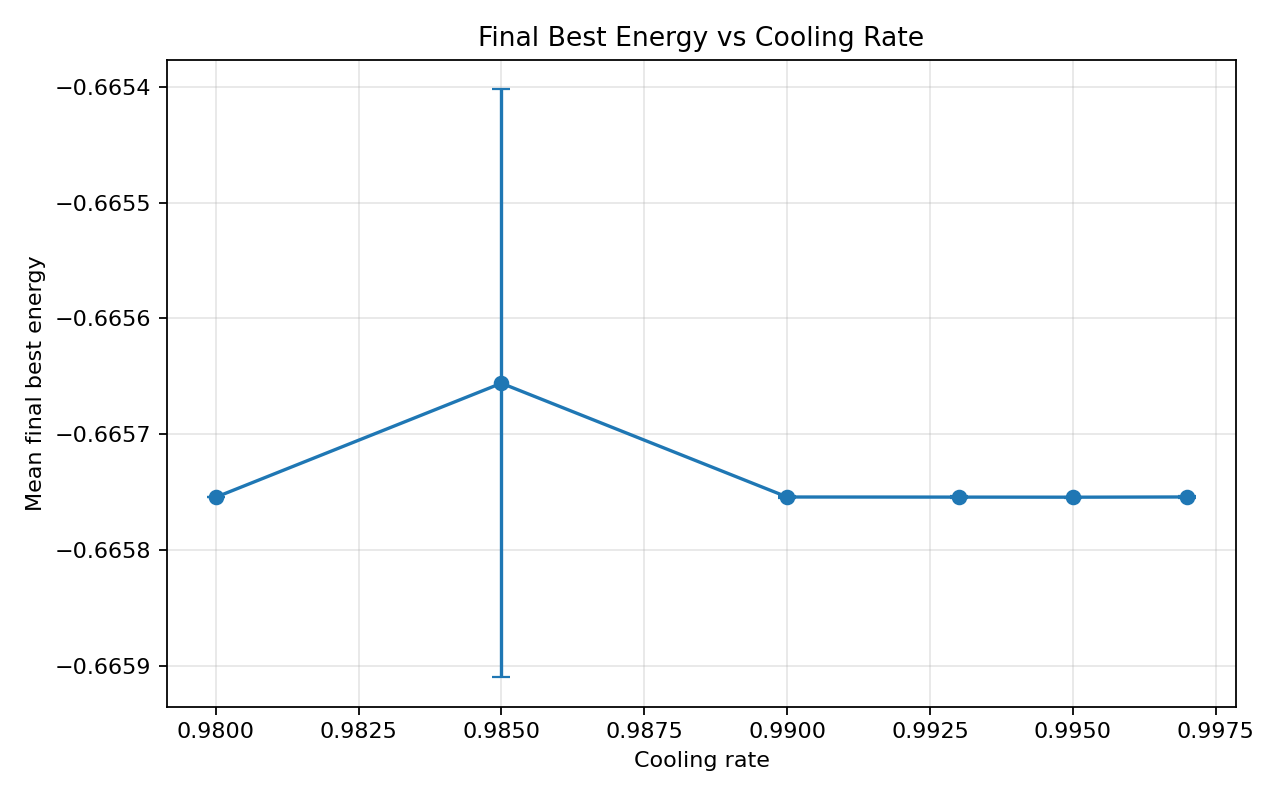
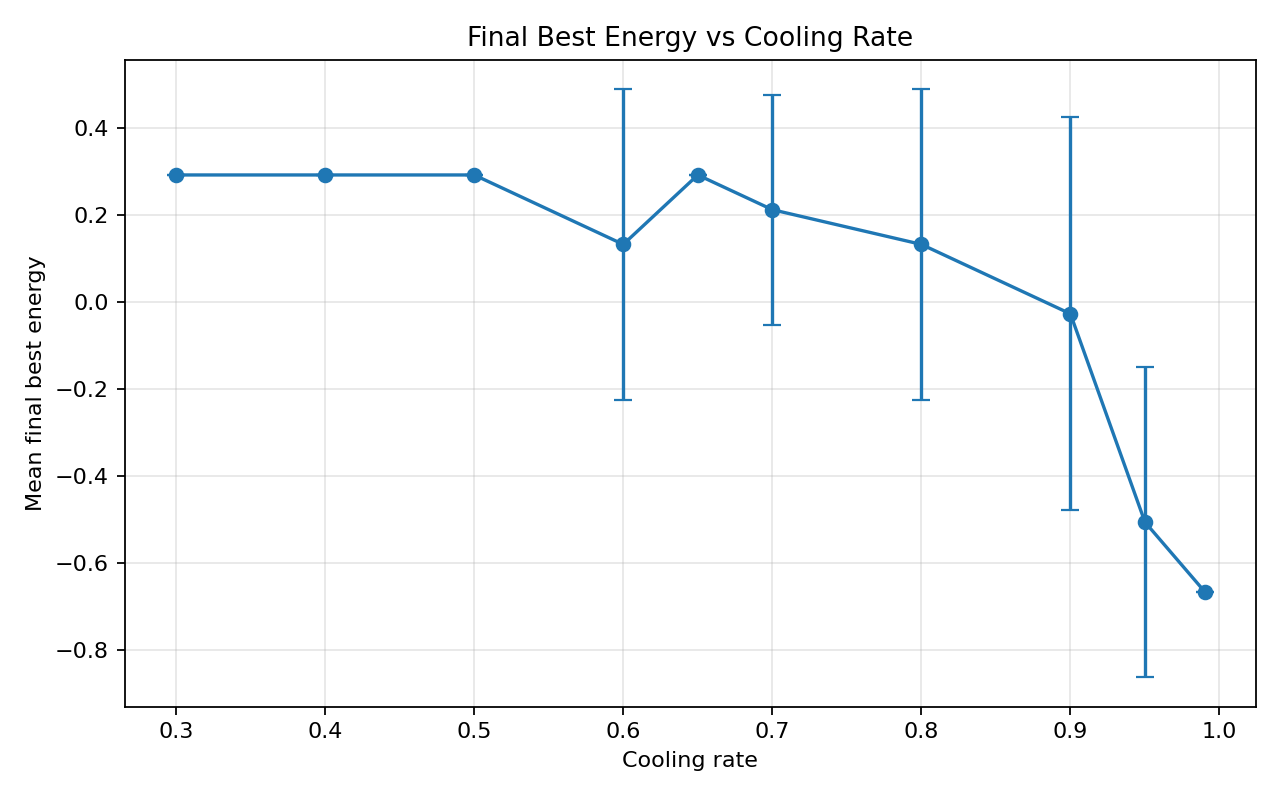
More visualisations for 1983-Kirkpatrick SA paper

diff --git a/papers/1983-kirkpatrick-optimization-by-simulated-annealing/benchmarks/benchmark_simulated_annealing.py b/papers/1983-kirkpatrick-optimization-by-simulated-annealing/benchmarks/benchmark_simulated_annealing.py
@@ -32,6 +32,8 @@ from python.simulated_annealing import (  # noqa: E402
     rugged_landscape_energy,
 )
 
+GEOMETRIC_ALPHAS = [0.99, 0.95, 0.9, 0.8, 0.7, 0.65, 0.6, 0.5, 0.4, 0.3]
+
 
 def rolling_mean(values: list[float], window: int) -> list[float]:
     result: list[float] = []
@@ -318,6 +320,47 @@ def plot_parameter_sweep(rows, parameter_key: str, title: str, xlabel: str, file
     plt.close()
 
 
+def plot_geometric_alpha_study(rows, output_dir: Path) -> None:
+    x_values = [row["cooling_rate"] for row in rows]
+    best_energy = [row["mean_best_energy"] for row in rows]
+    best_energy_err = [row["stderr_best_energy"] for row in rows]
+    global_gap = [row["mean_best_energy_gap_to_global_minimum"] for row in rows]
+    global_gap_err = [row["stderr_best_energy_gap_to_global_minimum"] for row in rows]
+
+    fig, (ax1, ax2) = plt.subplots(2, 1, figsize=(9, 7.5), sharex=True)
+    ax1.errorbar(
+        x_values,
+        best_energy,
+        yerr=best_energy_err,
+        marker="o",
+        capsize=4,
+        linewidth=1.6,
+        color="#1f77b4",
+    )
+    ax1.set_ylabel("Final best energy")
+    ax1.set_title("Final Best Energy vs Geometric Schedule Alpha")
+    ax1.grid(True, alpha=0.3)
+
+    ax2.errorbar(
+        x_values,
+        global_gap,
+        yerr=global_gap_err,
+        marker="s",
+        capsize=4,
+        linewidth=1.6,
+        color="#d62728",
+    )
+    ax2.set_xlabel("Geometric schedule alpha")
+    ax2.set_ylabel("Gap to global optimum")
+    ax2.set_title("Gap to Global Optimum vs Geometric Schedule Alpha")
+    ax2.grid(True, alpha=0.3)
+
+    fig.suptitle("Geometric Schedule Alpha Study", y=0.98)
+    fig.tight_layout()
+    plt.savefig(output_dir / "final_energy_vs_geometric_schedule_alphas.png", dpi=160)
+    plt.close(fig)
+
+
 def plot_sa_vs_hill_summary(sa_results, hc_results, output_dir: Path) -> None:
     sa_best = [result.best_energy for result in sa_results]
     hc_best = [result.best_energy for result in hc_results]
@@ -364,7 +407,16 @@ def summarize_runs(results, label: str, global_minimum_energy: float) -> dict[st
     }
 
 
-def repeated_sa_sweep(param_name: str, values: list[float], *, repeats: int, steps: int, initial_state: float, base_seed: int):
+def repeated_sa_sweep(
+    param_name: str,
+    values: list[float],
+    *,
+    repeats: int,
+    steps: int,
+    initial_state: float,
+    base_seed: int,
+    global_minimum_energy: float,
+):
     rows = []
     for value_index, value in enumerate(values):
         results = []
@@ -389,6 +441,22 @@ def repeated_sa_sweep(param_name: str, values: list[float], *, repeats: int, ste
                 param_name: value,
                 "mean_best_energy": statistics.fmean(result.best_energy for result in results),
                 "std_best_energy": statistics.pstdev(result.best_energy for result in results),
+                "stderr_best_energy": (
+                    statistics.pstdev(result.best_energy for result in results) / math.sqrt(len(results))
+                    if len(results) > 1
+                    else 0.0
+                ),
+                "mean_best_energy_gap_to_global_minimum": statistics.fmean(
+                    result.best_energy - global_minimum_energy for result in results
+                ),
+                "stderr_best_energy_gap_to_global_minimum": (
+                    statistics.pstdev(
+                        result.best_energy - global_minimum_energy for result in results
+                    )
+                    / math.sqrt(len(results))
+                    if len(results) > 1
+                    else 0.0
+                ),
             }
         )
     return rows
@@ -467,11 +535,12 @@ def main() -> None:
 
     cooling_rows = repeated_sa_sweep(
         "cooling_rate",
-        [0.98, 0.985, 0.99, 0.993, 0.995, 0.997],
+        GEOMETRIC_ALPHAS,
         repeats=12,
         steps=args.steps,
         initial_state=args.initial_state,
         base_seed=args.seed + 1000,
+        global_minimum_energy=global_minimum_info["global_minimum_energy"],
     )
     init_temp_rows = repeated_sa_sweep(
         "initial_temperature",
@@ -480,6 +549,7 @@ def main() -> None:
         steps=args.steps,
         initial_state=args.initial_state,
         base_seed=args.seed + 3000,
+        global_minimum_energy=global_minimum_info["global_minimum_energy"],
     )
     step_size_rows = repeated_sa_sweep(
         "step_size",
@@ -488,6 +558,7 @@ def main() -> None:
         steps=args.steps,
         initial_state=args.initial_state,
         base_seed=args.seed + 5000,
+        global_minimum_energy=global_minimum_info["global_minimum_energy"],
     )
 
     plot_parameter_sweep(
@@ -498,6 +569,7 @@ def main() -> None:
         filename="final_best_energy_vs_cooling_rate.png",
         output_dir=output_dir,
     )
+    plot_geometric_alpha_study(cooling_rows, output_dir)
     plot_parameter_sweep(
         init_temp_rows,
         parameter_key="initial_temperature",

diff --git a/papers/1983-kirkpatrick-optimization-by-simulated-annealing/python/simulated_annealing.py b/papers/1983-kirkpatrick-optimization-by-simulated-annealing/python/simulated_annealing.py
@@ -26,7 +26,7 @@ def geometric_schedule(initial_temperature: float, cooling_rate: float) -> Calla
         raise ValueError("cooling_rate must lie in (0, 1)")
 
     def schedule(step_index: int) -> float:
-        return initial_temperature * (cooling_rate ** step_index)
+        return max(initial_temperature * (cooling_rate ** step_index), 1.0e-12)
 
     return schedule
 
